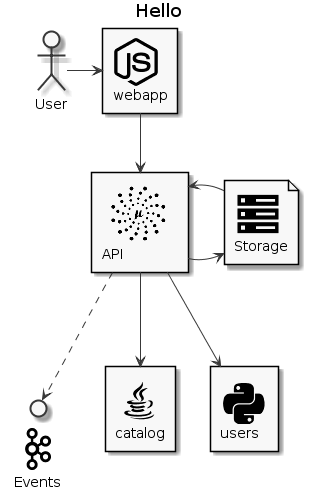
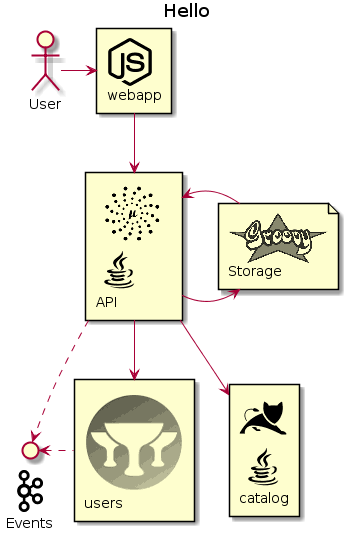
updated example

diff --git a/README.md b/README.md
@@ -17,27 +17,26 @@ Example:
 !define PVIDAURL https://raw.githubusercontent.com/jagedn/mn-plantuml-sprites/master/sprites/
 
 !includeurl SPRITESURL/java.puml
-!includeurl SPRITESURL/cassandra.puml
 !includeurl SPRITESURL/nodejs.puml
 !includeurl SPRITESURL/kafka.puml
 !includeurl SPRITESURL/tomcat.puml
-!includeurl SPRITESURL/server.puml
-!includeurl SPRITESURL/python.puml
 
 !includeurl PVIDAURL/micronaut.puml
+!includeurl PVIDAURL/groovy16.puml
+!includeurl PVIDAURL/grails.puml
+
 
 title Hello
 
-skinparam monochrome true
 
 actor User
 rectangle "<$nodejs>\nwebapp" as webapp
 
-rectangle "<$micronaut>\nAPI" as api
+rectangle "<$micronaut>\n<$java>\nAPI" as api
 interface "<$kafka>\nEvents" as kafka
-file "<$server>\nStorage" as repo
-rectangle "<$java>\ncatalog" as catalog
-rectangle "<$python>\nusers" as users
+file "<$groovy>\nStorage" as repo
+rectangle "<$tomcat>\n<$java>\ncatalog" as catalog
+rectangle "<$grails>\nusers" as users
 
 User -> webapp
 webapp --> api
@@ -46,6 +45,7 @@ repo -> api
 api ..> kafka
 api --> catalog
 api --> users
+kafka <. users
 @enduml
 ```
 
